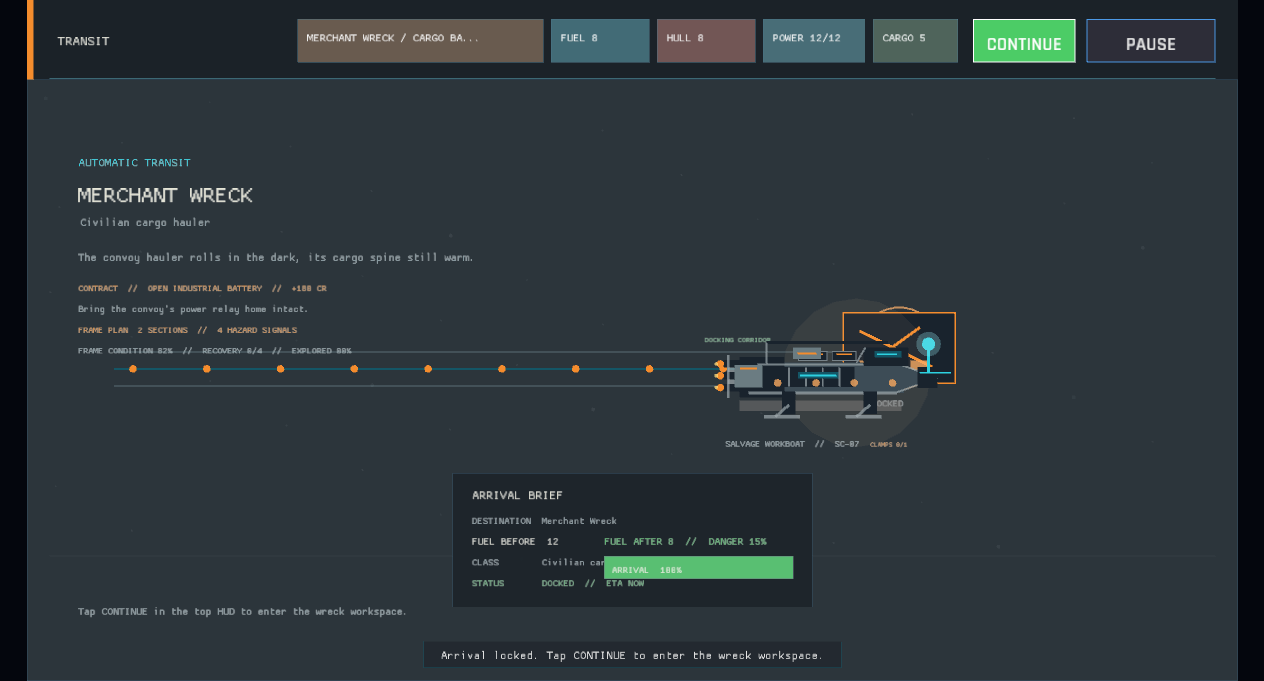
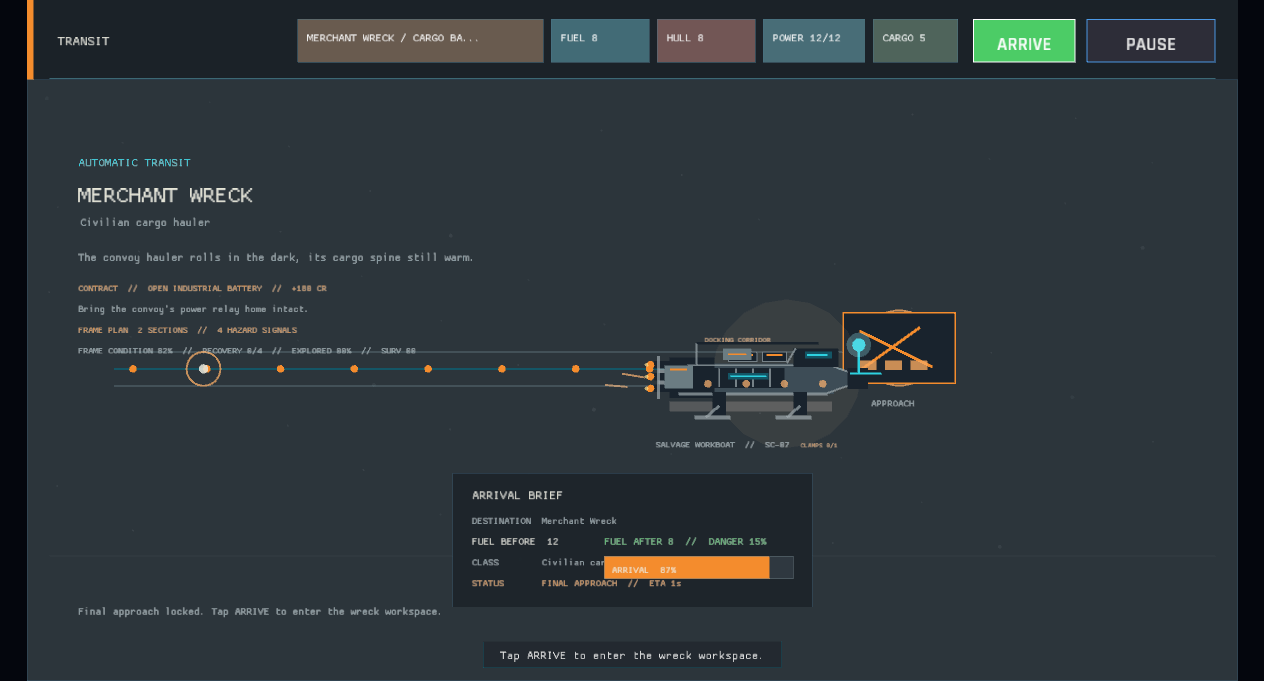
The approach chart remembers what the scanner already knows (transit survey status)
The transit frame-status line now surfaces the number of retained survey notes for the selected wreck. Added a focused label regression and refreshed the travel verification capture so revisit intelligence is visible before arrival.

diff --git a/src/ui/travel.rs b/src/ui/travel.rs
@@ -118,13 +118,15 @@ pub fn draw_travel(ctx: &UiContext<'_>, _actions: &mut Vec<UiAction>) {
         .get(&site.id)
         .map_or(site.condition, |progress| progress.condition);
     let recovery = ctx.session.site_recovery_status(&site.id, ctx.data);
+    let survey_count = ctx.session.site_survey_count(&site.id);
     draw_text(
         format!(
-            "FRAME CONDITION {:02}%  //  RECOVERY {}/{}  //  EXPLORED {:02}%",
+            "FRAME CONDITION {:02}%  //  RECOVERY {}/{}  //  EXPLORED {:02}%  //  {}",
             frame_condition,
             recovery.recovered_targets,
             recovery.total_targets,
-            recovery.exploration_percent
+            recovery.exploration_percent,
+            travel_survey_label(survey_count)
         ),
         54.0,
         374.0,
@@ -265,6 +267,10 @@ fn site_hazard_count(site: &crate::data::SiteData) -> usize {
         .iter()
         .map(|section| section.hazard_tags.len())
         .sum()
+}
+
+fn travel_survey_label(survey_count: usize) -> String {
+    format!("SURV {:02}", survey_count)
 }
 
 fn travel_phase_color(phase: TravelPhase) -> Color {

diff --git a/src/ui/travel/tests.rs b/src/ui/travel/tests.rs
@@ -43,6 +43,12 @@ fn site_hazard_count_covers_the_full_arrival_plan() {
 }
 
 #[test]
+fn transit_brief_names_retained_survey_count() {
+    assert_eq!(travel_survey_label(0), "SURV 00");
+    assert_eq!(travel_survey_label(3), "SURV 03");
+}
+
+#[test]
 fn travel_instructions_name_the_visible_next_control() {
     assert!(travel_instruction(TravelPhase::Cruise).contains("ARRIVE"));
     assert!(travel_instruction(TravelPhase::Docked).contains("CONTINUE"));
